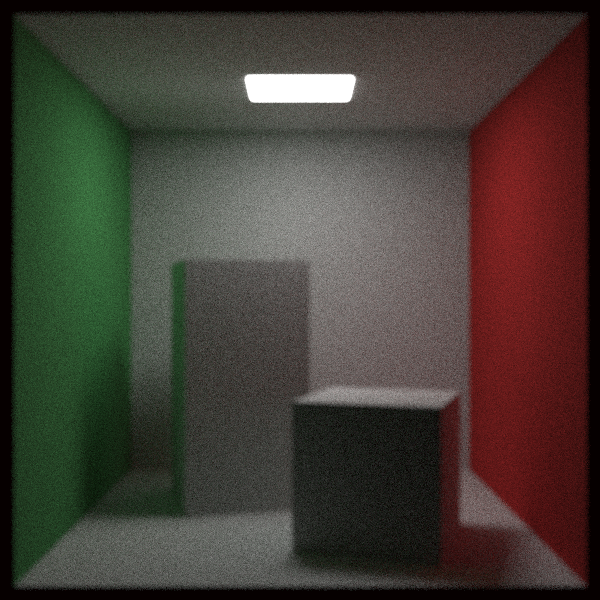
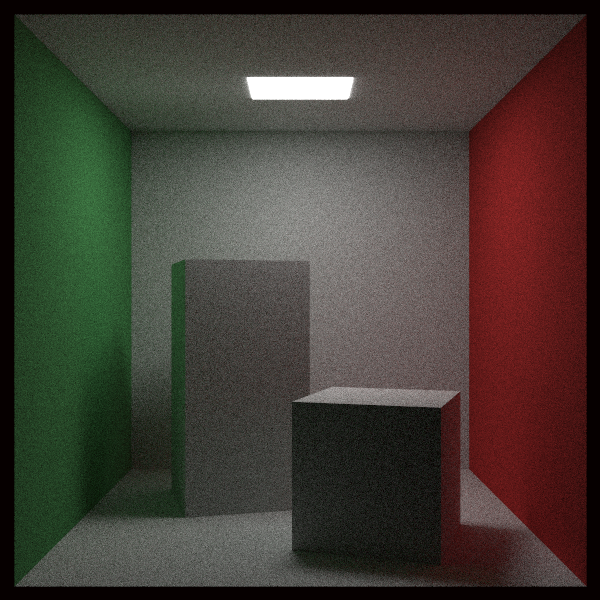
fix some bug

diff --git a/Whitted-Style Ray Tracing/main.cpp b/Whitted-Style Ray Tracing/main.cpp
@@ -132,7 +132,7 @@ HittableList cornellBox()
 int main()
 {
 	//size of image
-	const float scale = 1;
+	const float scale = 1.0;
 	const int width = 600;
 	const int height = static_cast<int>(width / scale);
 	Color3 background = Color3(0,0,0);
@@ -145,7 +145,7 @@ int main()
 	Point3 lookat(0, 0, 0);
 	Vec3 vup(0, 1, 0);
 	auto dist_to_focus = 10.0;
-	auto aperture = 0.1;
+	auto aperture = 0.0;
 	auto vfov = 40.0;
 	//scene
 	HittableList scene;
